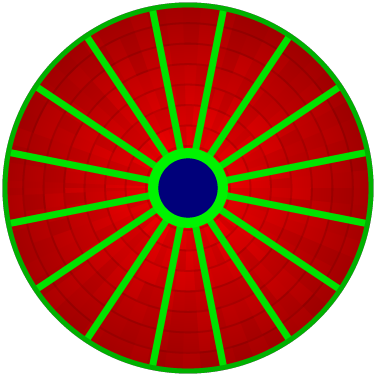
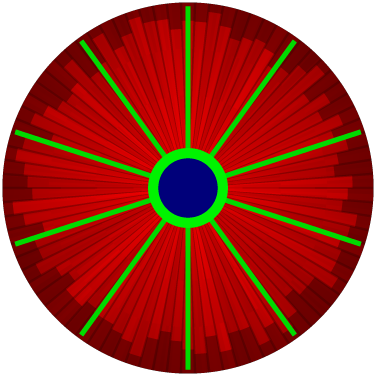
Lay house roofs as thatch running downhill.
Straw bundles follow the slope from the ridge to the eaves, with uneven tips. The old horizontal courses read as wall boards.

diff --git a/tools/gen_houses.py b/tools/gen_houses.py
@@ -8,6 +8,9 @@ rozlišení. Každý dům má dvě vrstvy a tři velikosti od každého typu:
   tram   nejvyšší bod uprostřed, trámy ze středu do rohů
   jurta  kruh, střecha s věncem a tyčemi
 
+Krytina je došková. Snopy jdou po spádu, od hřebene dolů k okapu,
+ne v řadách napříč.
+
 Vrstva nese váhy materiálu, ne hotovou barvu. Alfa je krytí.
 Střecha (výška domu): R krytina, G dřevo, B otvor (kouřová díra jurty).
 Stěna (0 m, stojí jako pařez): R stěna, G dřevo, B sklo.
@@ -399,28 +402,35 @@ def paint_yurt_wall(mask: Mask, x: np.ndarray, y: np.ndarray, house: House) -> N
         mask.fill(inside & (local <= win_half) & (t >= 0.04) & (t <= 0.44), GLASS, 0.95)
 
 
-def shingle_shade(slope: np.ndarray, along: np.ndarray, rows: float, tile: float, salt: int, bias: np.ndarray) -> np.ndarray:
-    row = np.floor(slope * rows)
-    col = np.floor(along / tile + (row % 2) * 0.5)
-    grain = hash01(col, row, salt)
-    shade = (1.0 - 0.5 * np.clip(slope, 0.0, 1.0)) * bias * (0.84 + 0.16 * grain)
-    frac = slope * rows - row
-    return shade * np.where((frac < 0.1) & (slope > 0.02), 0.8, 1.0)
+def thatch_shade(down: np.ndarray, across: np.ndarray, salt: int, bias: np.ndarray) -> np.ndarray:
+    """Došek. down je 0 na hřebeni a 1 u okapu, snop běží po spádu."""
+    bundle_w = m(0.2)
+    wiggle = 0.05 * np.sin(down * 16.0 + np.floor(across / bundle_w))
+    phase = across / bundle_w + wiggle
+    bundle = np.floor(phase)
+    local = phase - bundle
+    seam = np.minimum(local, 1.0 - local) < 0.1
+    fiber = hash01(np.floor(across / m(0.04)), np.floor(down * 5.0), salt)
+    tone = hash01(bundle, np.zeros(bundle.shape, np.float32), salt + 4)
+    down_c = np.clip(down, 0.0, 1.0)
+    shade = (1.0 - 0.36 * down_c) * bias * (0.78 + 0.22 * tone) * (0.9 + 0.1 * fiber)
+    shade = np.where(seam, shade * 0.62, shade)
+    end = 0.76 + 0.2 * hash01(bundle, np.ones(bundle.shape, np.float32), salt + 8)
+    shade = np.where(down_c > end, shade * 0.55, shade)
+    return np.clip(shade, 0.0, 1.0)
 
 
 def paint_gable(mask: Mask, x: np.ndarray, y: np.ndarray, house: House) -> None:
     hx = m(house.width) / 2.0 + m(OVERHANG)
     hy = m(house.depth) / 2.0 + m(OVERHANG)
     inside = (np.abs(x) <= hx) & (np.abs(y) <= hy)
-    slope = np.abs(y) / hy
-    bias = np.where(y < 0.0, 0.72, 1.0).astype(np.float32)
-    shade = shingle_shade(slope, x, max(hy / m(0.28), 4.0), m(0.34), 11, bias)
-    mask.fill(inside, ROOF, shade)
-    eave = m(0.1)
-    trim = inside & ((hx - np.abs(x) <= eave) | (hy - np.abs(y) <= eave))
-    mask.fill(trim, WOOD, 0.66)
-    ridge = inside & (np.abs(y) <= m(0.1))
-    mask.fill(ridge, WOOD, 0.95)
+    down = np.abs(y) / hy
+    across = np.where(y < 0.0, x + m(0.1), x)
+    bias = np.where(y < 0.0, 0.74, 1.0).astype(np.float32)
+    mask.fill(inside, ROOF, thatch_shade(down, across, 11, bias))
+    # Štítové hrany drží dřevo. Okap je střapatý konec došku, ne prkno.
+    mask.fill(inside & (hx - np.abs(x) <= m(0.05)), WOOD, 0.55)
+    mask.fill(inside & (np.abs(y) <= m(0.06)), WOOD, 0.9)
 
 
 def paint_hip(mask: Mask, x: np.ndarray, y: np.ndarray, house: House) -> None:
@@ -434,11 +444,11 @@ def paint_hip(mask: Mask, x: np.ndarray, y: np.ndarray, house: House) -> None:
     bias = np.where(sides["east"], 0.86, bias)
     bias = np.where(sides["west"], 0.8, bias)
     bias = np.where(sides["north"], 0.7, bias)
-    along = np.where(np.abs(x) / hx >= np.abs(y) / hy, y, x)
-    shade = shingle_shade(slope, along, max(max(hx, hy) / m(0.28), 4.0), m(0.32), 23, bias)
-    mask.fill(inside, ROOF, shade)
-    eave = m(0.1)
-    mask.fill(inside & ((hx - np.abs(x) <= eave) | (hy - np.abs(y) <= eave)), WOOD, 0.64)
+    # Od vrcholu dolů k okapu. Na bocích by rovnoběžné řady zase vypadaly jako stěna.
+    bundles = max(28, int(math.tau * max(hx, hy) / m(0.22)))
+    ang = np.mod(np.arctan2(y, x) + math.pi, math.tau)
+    across = ang / (math.tau / bundles) * m(0.2)
+    mask.fill(inside, ROOF, thatch_shade(slope, across, 23, bias))
     d1 = np.abs(x * hy - y * hx) / math.hypot(hx, hy)
     d2 = np.abs(x * hy + y * hx) / math.hypot(hx, hy)
     mask.fill(inside & ((d1 <= m(0.1)) | (d2 <= m(0.1))), WOOD, 0.9)
@@ -451,26 +461,31 @@ def paint_yurt_roof(mask: Mask, x: np.ndarray, y: np.ndarray, house: House) -> N
     slope = dist / radius
     angle = np.arctan2(y, x)
     salt = sum(ord(char) for char in house.name)
-    rows = max(radius / m(0.32), 5.0)
-    row = np.floor(slope * rows)
-    grain = hash01(np.floor(angle * 10.0), row, salt)
-    shade = (1.0 - 0.42 * slope) * (0.88 + 0.12 * grain)
-    frac = slope * rows - row
-    shade = shade * np.where((frac < 0.1) & (slope > 0.08), 0.84, 1.0)
-    mask.fill(inside, ROOF, shade)
-
-    poles = 12 if house.width < 4.5 else 16 if house.width < 6.5 else 20
-    sector = math.tau / poles
-    delta = np.mod(angle + math.pi / poles, sector)
-    delta = np.minimum(delta, sector - delta)
-    arc = delta * np.maximum(dist, 1.0)
     hole = radius * 0.16
     crown_out = hole + m(0.16)
-    pole = inside & (dist >= crown_out) & (dist <= radius - m(0.08)) & (arc <= m(0.055))
-    mask.fill(pole, WOOD, 0.86)
+    bundles = max(18, int(math.tau * radius / m(0.22)))
+    sector = math.tau / bundles
+    ang = np.mod(angle + math.pi, math.tau)
+    bundle = np.floor(ang / sector)
+    local = ang / sector - bundle
+    seam = np.minimum(local, 1.0 - local) < 0.09
+    tone = hash01(bundle, np.zeros(bundle.shape, np.float32), salt)
+    fiber = hash01(np.floor(ang / (sector * 0.28)), np.floor(slope * 4.0), salt + 2)
+    shade = (1.0 - 0.34 * slope) * (0.78 + 0.22 * tone) * (0.9 + 0.1 * fiber)
+    shade = np.where(seam & (dist > crown_out), shade * 0.64, shade)
+    end = 0.78 + 0.18 * hash01(bundle, np.ones(bundle.shape, np.float32), salt + 6)
+    shade = np.where(slope > end, shade * 0.55, shade)
+    mask.fill(inside, ROOF, np.clip(shade, 0.0, 1.0))
+
+    poles = 8 if house.width < 4.5 else 10 if house.width < 6.5 else 12
+    pole_sector = math.tau / poles
+    delta = np.mod(angle + math.pi / poles, pole_sector)
+    delta = np.minimum(delta, pole_sector - delta)
+    arc = delta * np.maximum(dist, 1.0)
+    pole = inside & (dist >= crown_out) & (dist <= radius - m(0.06)) & (arc <= m(0.04))
+    mask.fill(pole, WOOD, 0.82)
     mask.fill(inside & (dist >= hole) & (dist <= crown_out), WOOD, 0.94)
     mask.fill(dist <= hole, OPENING, 0.35)
-    mask.fill(inside & (radius - dist <= m(0.08)), WOOD, 0.62)
 
 
 def render(house: House) -> tuple[Image.Image, Image.Image, int]:
